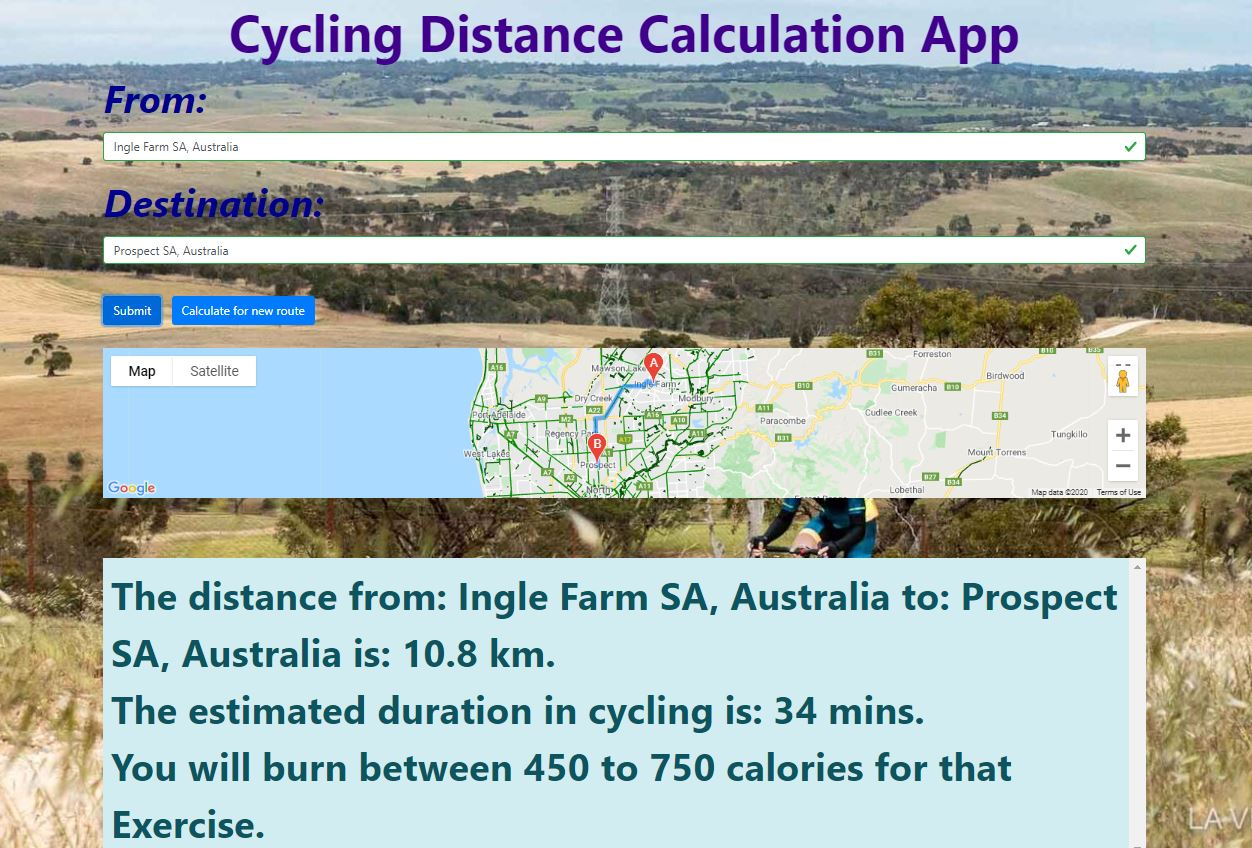
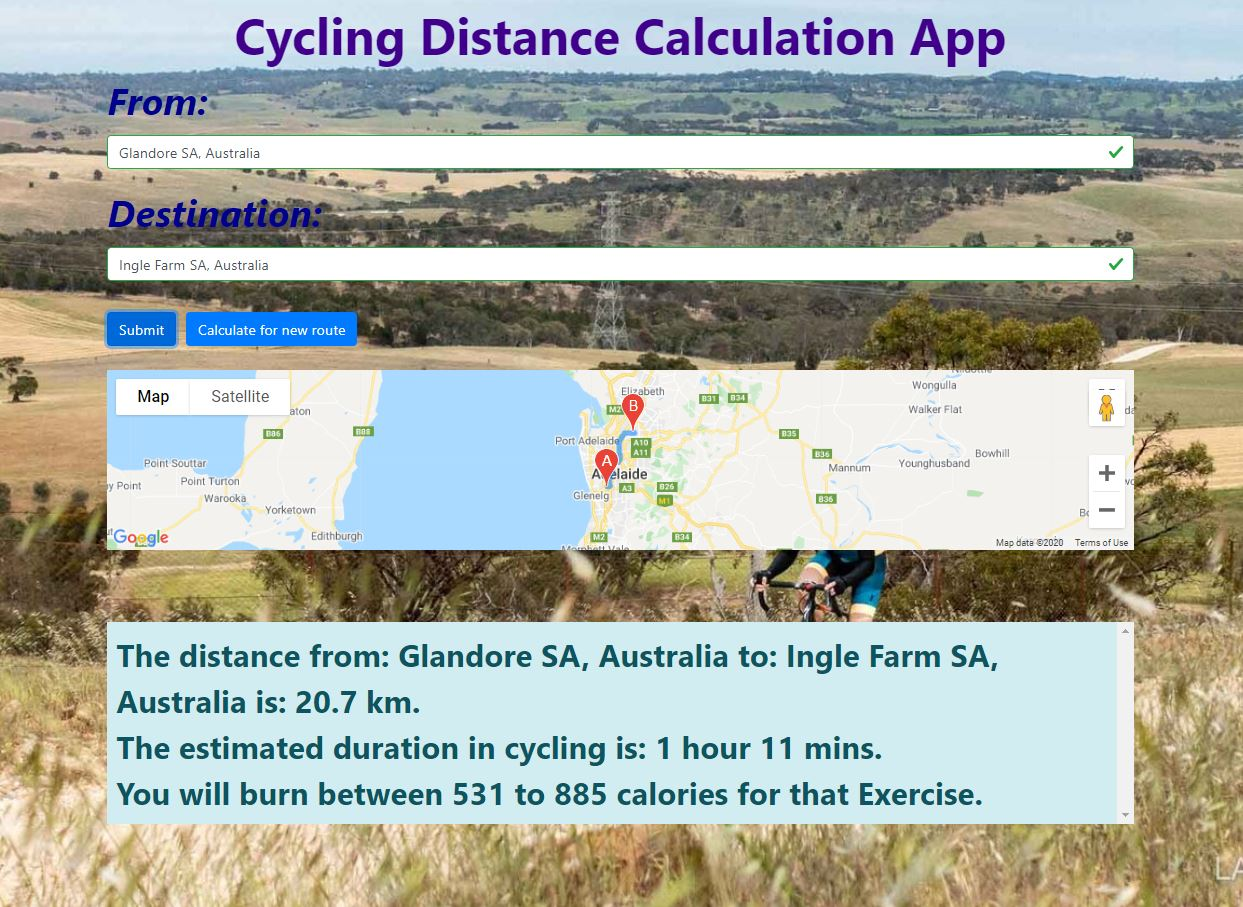
Adding Hibernate to the portfolio. Modify the cyclingExerciseDistance/js/app.js

diff --git a/index.html b/index.html
@@ -147,12 +147,12 @@
                             <!-- <h3 class="h5 mb-2">MySQL</h3> -->
                         </div>
                     </div>
-                    <div class="col-md-3 col-6 col-sm-4 col-lg-2 text-center">
+                    <!-- <div class="col-md-3 col-6 col-sm-4 col-lg-2 text-center">
                         <div class="mt-5">
                             <img src="assets/img/oracle.png" height="180" class="text-primary mb-4"></img>
-                            <!-- <h3 class="h5 mb-2">ORACLE</h3> -->
+                            
                         </div>
-                    </div>
+                    </div> -->
                     <div class="col-md-3 col-6 col-sm-4 col-lg-2 text-center">
                         <div class="mt-5">
                             <img src="assets/img/sqlserver.png" height="180" class="text-primary mb-4"></img>
@@ -200,6 +200,13 @@
                             <!-- <h3 class="h5 mb-2">Spring Framework (Spring core, mvc, aop, security)</h3> -->
                         </div>
                     </div>
+
+                    <div class="col-md-3 col-6 col-sm-4 col-lg-2 text-center">
+                        <div class="mt-5">
+                            <img src="assets/img/hibernate.png" height="180" class="text-primary mb-4"></img>
+                        </div>
+                    </div>
+
                     <div class="col-md-3 col-6 col-sm-4 col-lg-2 text-center">
                         <div class="mt-5">
                             <img src="assets/img/springboot.png" height="180" class="text-primary mb-4"></img>

diff --git a/projects/cyclingExerciseDistance/js/app.js b/projects/cyclingExerciseDistance/js/app.js
@@ -43,7 +43,7 @@ function displayDistanceMessage() {
     origin: document.getElementById("from").value,
     destination: document.getElementById("destination").value,
     // Set the travel mode: could be Driving, Walking, Bicycling, Transit
-    travelMode: google.maps.TravelMode.BICYCLING ,
+    travelMode: google.maps.TravelMode.BICYCLING,
     unitSystem: google.maps.UnitSystem.METRIC
   }
 
@@ -52,7 +52,9 @@ function displayDistanceMessage() {
     // If the DirectionStatus: status return OK (Valid Direction result) 
     if (status == google.maps.DirectionsStatus.OK) {
       $("#output").show(); 
-      var durationInHours = Math.round(result.routes[0].legs[0].duration.value/3600); 
+      // var durationInHours = Math.round(result.routes[0].legs[0].duration.value/3600); 
+      var durationInHours = result.routes[0].legs[0].duration.value/3600;
+      durationInHours = durationInHours.toFixed(2);  
       //Get distance and duration by Jquery
       $("#output").html("<div>The distance from: "
         + document.getElementById("from").value

diff --git a/projects/cyclingExerciseDistance/css/style.css b/projects/cyclingExerciseDistance/css/style.css
@@ -39,7 +39,7 @@ body {
 
 #output{
   text-align: left;
-  font-size: 3vw;
+  font-size: 2.5vw;
   /* height: 150px; */
   margin-top: 80px;
   margin-bottom: 10px;
